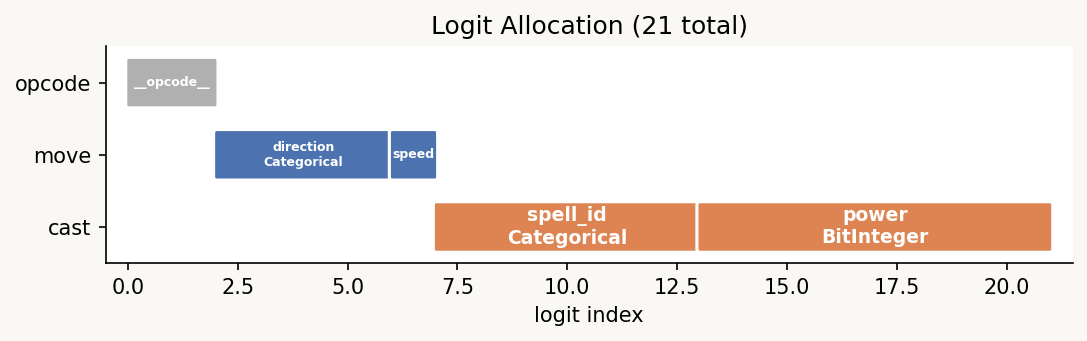
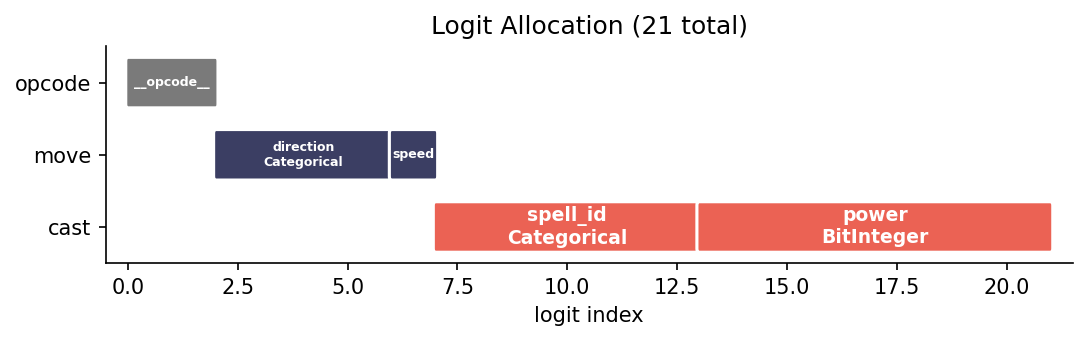
Updated Docs

Changed region(s): [[0.3947, 0.5865, 0.9715, 0.7331], [0.1822, 0.3812, 0.425, 0.5279], [0.0911, 0.176, 0.2125, 0.3226]]

diff --git a/docs/_static/custom.css b/docs/_static/custom.css
@@ -1,11 +1,14 @@
 /*  Loom Docs — 70s Rainbow Theme
- *  Warm off-white base with muted rainbow accents layered on sphinx_rtd_theme.
+ *  Cool slate base with muted rainbow accents layered on sphinx_rtd_theme.
  *
- *  Palette:
- *    cream      #FAF8F5    warm off-white background
- *    beige      #F3EDE5    code block / subtle surface
- *    brown-dk   #3D3229    sidebar, table headers
- *    brown-md   #5C4A3D    sidebar text
+ *  Palette (neutrals):
+ *    ice        #F5F6FA    cool off-white background
+ *    frost      #ECEDF3    code block / subtle surface
+ *    slate-dk   #2D3142    sidebar, table headers
+ *    slate-md   #4F5370    sidebar text
+ *    border-lt  #D8DAE4    light borders
+ *
+ *  Palette (accents):
  *    terracotta #B5553E    links, inline code text
  *    burnt-org  #C7522A    h1, link hover, primary accent
  *    mustard    #D4A843    h2, code border, admonition
@@ -15,31 +18,31 @@
  */
 
 
-/* COLORS = {
-//    "blue":    "#3B3E63",
-//    "cyan":    "#EB6254",
-//    "green":   "#5E5D4C",
-//    "yellow":  "#D9BC65",
-//    "red":     "#E58D58",
-//    "purple":  "#3B3E63",
-//    "grey":    "#3E3E3E",
-//    "black":   "#7A7A7A",
-//}
+:root {
+    --loom-blue:    #3B3E63;
+    --loom-cyan:    #EB6254;
+    --loom-green:   #5E5D4C;
+    --loom-yellow:  #D9BC65;
+    --loom-red:     #E58D58;
+    --loom-purple:  #3B3E63;
+    --loom-grey:    #3E3E3E;
+    --loom-black:   #7A7A7A;
+}
 
 /* ------------------------------------------------------------------ */
 /*  Global background                                                  */
 /* ------------------------------------------------------------------ */
 
 .wy-body-for-nav {
-    background: #FAF8F5;
+    background: #F5F6FA;
 }
 
 .wy-nav-content-wrap {
-    background: #FAF8F5;
+    background: #F5F6FA;
 }
 
 .wy-nav-content {
-    background: #FAF8F5;
+    background: #F5F6FA;
     max-width: 900px;
 }
 
@@ -48,46 +51,46 @@
 /* ------------------------------------------------------------------ */
 
 .wy-nav-side {
-    background: #3D3229;
+    background: #2D3142;
 }
 
 .wy-side-nav-search {
-    background: #3D3229;
+    background: #2D3142;
 }
 
 .wy-side-nav-search input[type="text"] {
-    border-color: #5C4A3D;
-    background: #5C4A3D;
-    color: #FAF8F5;
+    border-color: #2D3142;
+    background: #2D3142;
+    color: #F5F6FA;
 }
 
 .wy-side-nav-search input[type="text"]::placeholder {
-    color: #C7B9A8;
+    color: #B0B4C4;
 }
 
 .wy-side-nav-search a,
 .wy-side-nav-search .icon {
-    color: #FAF8F5;
+    color: #F5F6FA;
 }
 
 .wy-menu-vertical a {
-    color: #D5C8B8;
+    color: #B8BCD0;
 }
 
 .wy-menu-vertical a:hover {
-    background: #5C4A3D;
-    color: #FAF8F5;
+    background: #4F5370;
+    color: #F5F6FA;
 }
 
 .wy-menu-vertical li.current > a,
 .wy-menu-vertical li.current a:hover {
-    background: #5C4A3D;
-    color: #FAF8F5;
+    background: #4F5370;
+    color: #F5F6FA;
     border-right: 3px solid #D4A843;
 }
 
 .wy-menu-vertical li.toctree-l1.current > a {
-    border-bottom-color: #5C4A3D;
+    border-bottom-color: #4F5370;
 }
 
 /* ------------------------------------------------------------------ */
@@ -102,7 +105,7 @@ h1 {
 
 h2 {
     color: #D4A843 !important;
-    border-bottom: 1px solid #E8DCC8;
+    border-bottom: 1px solid #D8DAE4;
     padding-bottom: 0.2em;
 }
 
@@ -141,22 +144,22 @@ h5, h6 {
 /* ------------------------------------------------------------------ */
 
 .highlight {
-    background: #F3EDE5 !important;
+    background: #ECEDF3 !important;
     border-left: 3px solid #D4A843;
     border-radius: 2px;
 }
 
 .highlight pre {
-    background: #F3EDE5 !important;
-    color: #3D3229;
+    background: #ECEDF3 !important;
+    color: #2D3142;
 }
 
 code.literal,
 code.docutils.literal,
 .rst-content code.literal {
-    background: #F3EDE5;
+    background: #ECEDF3;
     color: #B5553E;
-    border: 1px solid #E8DCC8;
+    border: 1px solid #D8DAE4;
     border-radius: 3px;
     padding: 1px 4px;
     font-size: 0.9em;
@@ -167,25 +170,25 @@ code.docutils.literal,
 /* ------------------------------------------------------------------ */
 
 .wy-table-responsive table {
-    background: #FAF8F5;
+    background: #F5F6FA;
 }
 
 .wy-table-responsive th,
 .rst-content table.docutils th,
 .rst-content table.field-list th {
-    background: #3D3229 !important;
-    color: #FAF8F5 !important;
-    border-color: #5C4A3D;
+    background: #2D3142 !important;
+    color: #F5F6FA !important;
+    border-color: #4F5370;
     font-weight: 600;
 }
 
 .wy-table-responsive td,
 .rst-content table.docutils td {
-    border-color: #E8DCC8;
+    border-color: #D8DAE4;
 }
 
 .wy-table-responsive tr:nth-child(even) td {
-    background: #F3EDE5;
+    background: #ECEDF3;
 }
 
 /* ------------------------------------------------------------------ */
@@ -212,7 +215,7 @@ hr {
 /* ------------------------------------------------------------------ */
 
 .rst-content .admonition {
-    background: #FAF8F5;
+    background: #F5F6FA;
     border-left-width: 4px;
 }
 
@@ -222,7 +225,7 @@ hr {
 
 .rst-content .admonition.note .admonition-title {
     background: #4A8C7F;
-    color: #FAF8F5;
+    color: #F5F6FA;
 }
 
 .rst-content .admonition.warning {
@@ -231,7 +234,7 @@ hr {
 
 .rst-content .admonition.warning .admonition-title {
     background: #D4A843;
-    color: #3D3229;
+    color: #2D3142;
 }
 
 .rst-content .admonition.tip,
@@ -242,7 +245,7 @@ hr {
 .rst-content .admonition.tip .admonition-title,
 .rst-content .admonition.hint .admonition-title {
     background: #74A54E;
-    color: #FAF8F5;
+    color: #F5F6FA;
 }
 
 .rst-content .admonition.danger,
@@ -253,7 +256,7 @@ hr {
 .rst-content .admonition.danger .admonition-title,
 .rst-content .admonition.error .admonition-title {
     background: #C7522A;
-    color: #FAF8F5;
+    color: #F5F6FA;
 }
 
 .rst-content .admonition.important {
@@ -262,7 +265,7 @@ hr {
 
 .rst-content .admonition.important .admonition-title {
     background: #C27898;
-    color: #FAF8F5;
+    color: #F5F6FA;
 }
 
 /* ------------------------------------------------------------------ */
@@ -271,6 +274,13 @@ hr {
 
 .rst-content img {
     border-radius: 4px;
+    background: transparent;
+}
+
+.rst-content figure,
+.rst-content .figure,
+.rst-content .image-reference {
+    background: transparent;
 }
 
 /* ------------------------------------------------------------------ */
@@ -298,11 +308,11 @@ footer {
 }
 
 ::-webkit-scrollbar-track {
-    background: #F3EDE5;
+    background: #ECEDF3;
 }
 
 ::-webkit-scrollbar-thumb {
-    background: #C7B9A8;
+    background: #B0B4C4;
     border-radius: 4px;
 }
 
@@ -316,5 +326,5 @@ footer {
 
 ::selection {
     background: #D4A843;
-    color: #3D3229;
+    color: #2D3142;
 }

diff --git a/docs/generate_figures.py b/docs/generate_figures.py
@@ -40,7 +40,7 @@ OUT_DIR = Path(__file__).resolve().parent / "_static"
 OUT_DIR.mkdir(exist_ok=True)
 
 DPI = 150
-SAVEFIG_KW = dict(dpi=DPI, bbox_inches="tight", facecolor="#FAF8F5")
+SAVEFIG_KW = dict(dpi=DPI, bbox_inches="tight", transparent=True)
 
 
 # -- Schemas (same as in getting-started.md) --------------------------------

diff --git a/docs/index.md b/docs/index.md
@@ -6,6 +6,12 @@
 [![Python](https://img.shields.io/pypi/pyversions/loomlib.svg)](https://pypi.python.org/pypi/loomlib/)
 ![Build](https://github.com/btrainwilson/loom/actions/workflows/test.yaml/badge.svg)
 
+```{image} _static/loom_decode.png
+:alt: Loom decoder architecture
+:align: center
+:width: 90%
+```
+
 Loom provides schema-driven encoding and decoding for transformers operating on
 structured data. A single type-annotated schema drives both sides: a
 `LoomEncoder` that tokenizes structured instances into field-level embeddings
